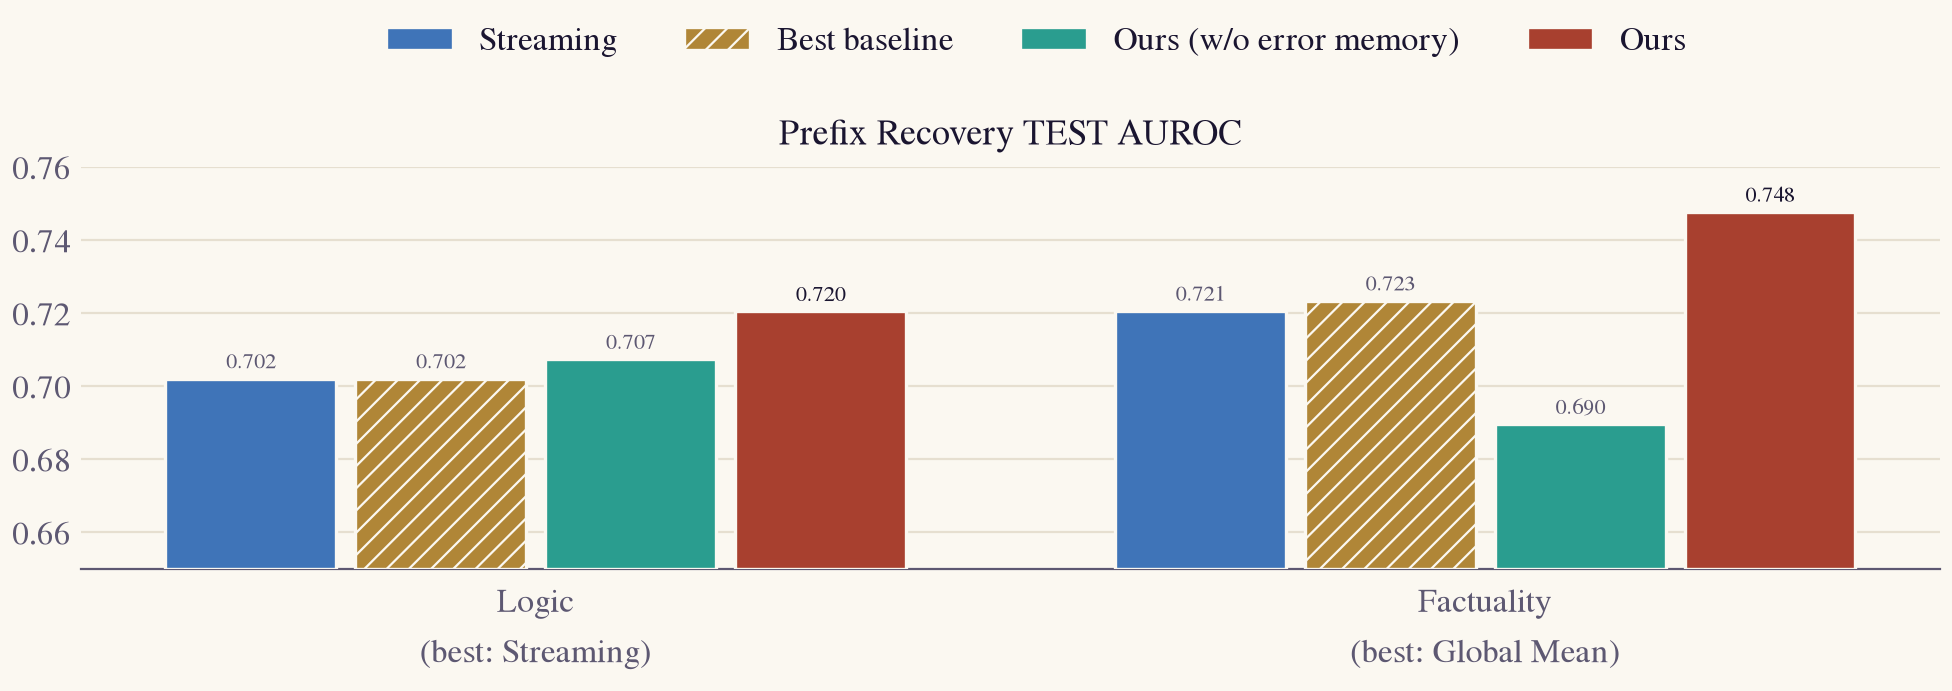
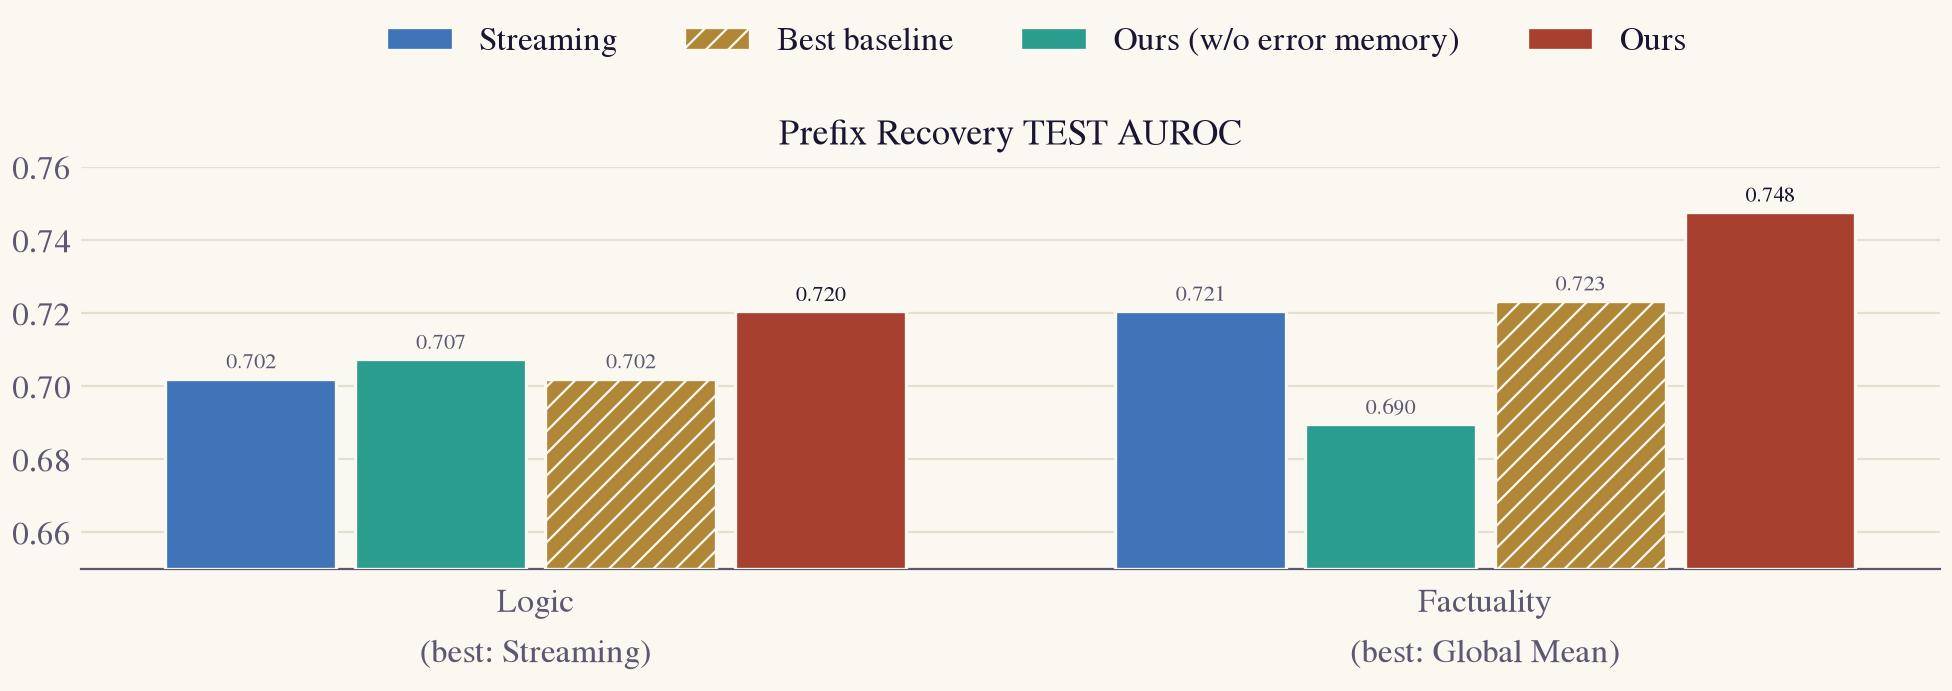
weekly: restore bar order and list the best baseline second in the legend

Changed region(s): [[0.6562, 0.3951, 0.875, 0.8205], [0.1562, 0.4863, 0.375, 0.8205]]

diff --git a/weekly/scripts/2026-11-18_a2.py b/weekly/scripts/2026-11-18_a2.py
@@ -43,8 +43,8 @@ def save(fig, name):
     print("wrote", OUT / name)
 
 
-SERIES = [("Streaming", STREAMING, ""), ("Best baseline", BASELINE, "///"),
-          ("Ours (w/o error memory)", ABLATION, ""), ("Ours", OURS, "")]
+SERIES = [("Streaming", STREAMING, ""), ("Ours (w/o error memory)", ABLATION, ""),
+          ("Best baseline", BASELINE, "///"), ("Ours", OURS, "")]
 
 
 def bars(ax, x, values, lo, hi, best_name, domains):
@@ -67,15 +67,17 @@ def bars(ax, x, values, lo, hi, best_name, domains):
 
 def results():
     domains = ["Logic", "Factuality"]; x = np.arange(2)
-    panels = [  # Streaming, best baseline, A1, A2
-        ("Step", [[0.8716, 0.8720], [0.8875, 0.8735], [0.8775, 0.8820], [0.8775, 0.8826]], ["HaMI", "HaMI"], (0.85, 0.895)),
-        ("Prefix", [[0.8256, 0.8222], [0.8256, 0.8226], [0.8341, 0.8106], [0.8377, 0.8367]], ["Streaming", "Global Mean"], (0.80, 0.845)),
+    panels = [  # Streaming, A1, best baseline, A2
+        ("Step", [[0.8716, 0.8720], [0.8775, 0.8820], [0.8875, 0.8735], [0.8775, 0.8826]], ["HaMI", "HaMI"], (0.85, 0.895)),
+        ("Prefix", [[0.8256, 0.8222], [0.8341, 0.8106], [0.8256, 0.8226], [0.8377, 0.8367]], ["Streaming", "Global Mean"], (0.80, 0.845)),
     ]
     fig, axes = plt.subplots(1, 2, figsize=(10.0, 3.8), dpi=200)
     for ax, (title, values, best_name, (lo, hi)) in zip(axes, panels):
         bars(ax, x, values, lo, hi, best_name, domains)
         ax.set_title(f"{title} TEST AUROC", fontsize=13, color=INK, pad=8)
     handles, labels = axes[0].get_legend_handles_labels()
+    order = [0, 2, 1, 3]  # legend: Streaming, Best baseline, Ours (w/o error memory), Ours
+    handles, labels = [handles[i] for i in order], [labels[i] for i in order]
     fig.legend(handles, labels, ncol=4, frameon=False, loc="upper center", bbox_to_anchor=(0.5, 1.07), labelcolor=INK)
     fig.tight_layout()
     save(fig, "a2_results.png")
@@ -83,12 +85,14 @@ def results():
 
 def recovery():
     domains = ["Logic", "Factuality"]; x = np.arange(2)
-    values = [[0.7020, 0.7205], [0.7020, 0.7233], [0.7073, 0.6895], [0.7204, 0.7476]]
+    values = [[0.7020, 0.7205], [0.7073, 0.6895], [0.7020, 0.7233], [0.7204, 0.7476]]
     fig, ax = plt.subplots(figsize=(10.0, 3.6), dpi=200)
     bars(ax, x, values, 0.65, 0.76, ["Streaming", "Global Mean"], domains)
     ax.set_title("Prefix Recovery TEST AUROC", fontsize=13, color=INK, pad=8)
     fig.tight_layout(rect=(0, 0, 1, 0.88))
     handles, labels = ax.get_legend_handles_labels()
+    order = [0, 2, 1, 3]  # legend: Streaming, Best baseline, Ours (w/o error memory), Ours
+    handles, labels = [handles[i] for i in order], [labels[i] for i in order]
     fig.legend(handles, labels, ncol=4, frameon=False, loc="upper center", bbox_to_anchor=(0.53, 1.0), labelcolor=INK)
     save(fig, "a2_recovery.png")
 
